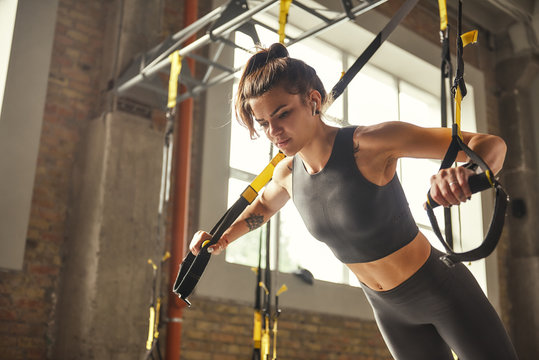
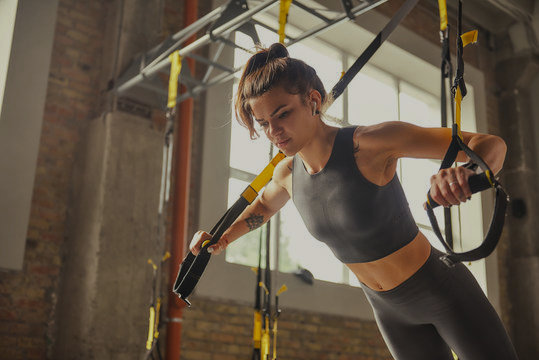
changed lower body image for colour balance. added link to footer reference link. changed colour saturdation of upper body image

diff --git a/templates/components/footer.html b/templates/components/footer.html
@@ -8,7 +8,7 @@
       <h5 class="white-text">Need help?</h5>
         <ul>
         <li><a class="grey-text text-lighten-3" href="{{ url_for('contact')}}">Contact Us</a></li>
-        <li><a class="grey-text text-lighten-3" href="#!">Helpful references</a></li>
+        <li><a class="grey-text text-lighten-3" href="https://www.nerdfitness.com/blog/how-to-build-your-own-workout-routine/">Helpful reference - how to build your own workout</a></li>
       </ul> 
     </div>
   </div>
